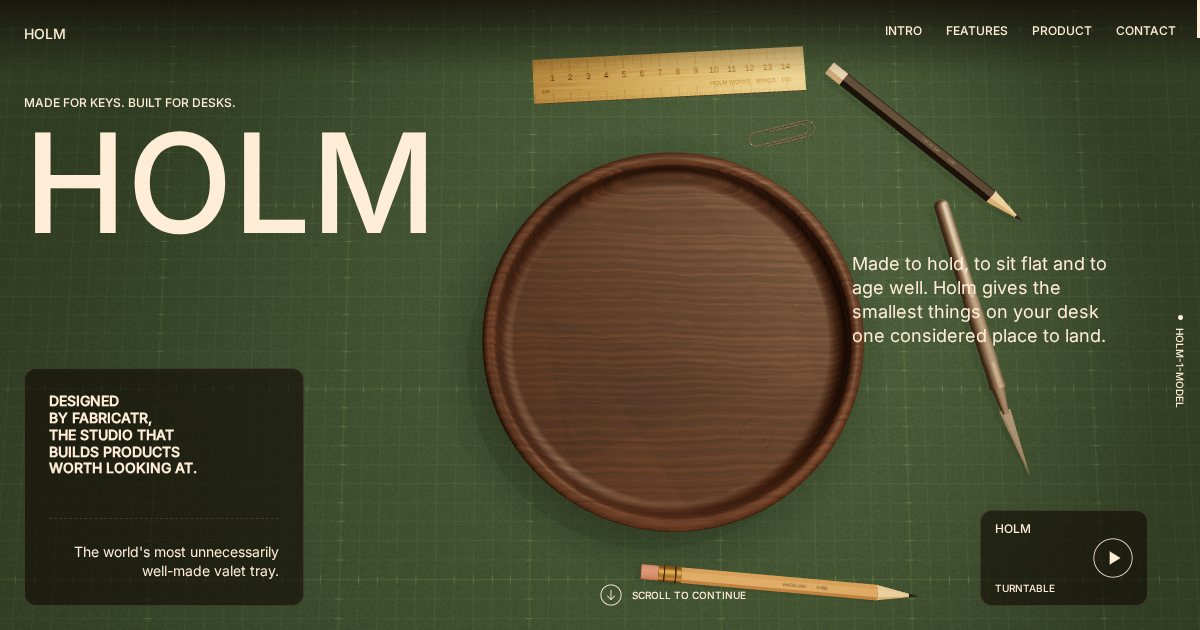
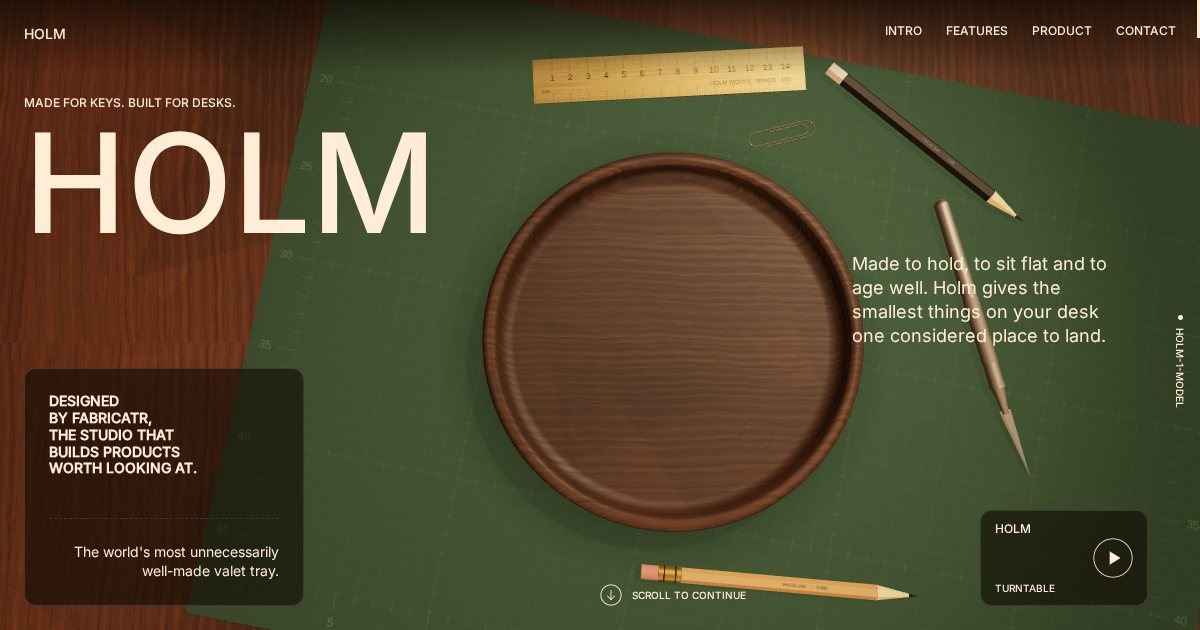
Give the set a desk and an angled mat; props per feature beat; richer gallery plates
Oak desk under a 3 mm cutting mat laid at 11 degrees, with real edges and
shadows. Coins and a ring fade into the pocket for Holds, a lit desk with a
contact shadow appears for Sits flat, and the walnut deepens on a slow cycle
for Ages well with the gauge marker following. Gallery gains a photograph, a
grain macro and a typographic poster. Dappled light on the cream interlude.

Claude-Session: https://claude.ai/code/session_01JWKw3uS8rxWdPNmURmLXLh

Changed region(s): [[0.0, 0.0302, 0.2775, 1.0], [0.555, 0.0, 1.0, 0.2111], [0.9867, 0.9952, 1.0, 1.0]]

diff --git a/assets/js/scene.js b/assets/js/scene.js
@@ -603,14 +603,26 @@ export function createScene(canvas, options = {}) {
   // The plane is far larger than any frame ever shows (the hero frames ≈ 5.3 × 3.3 units on desktop, the
   // portrait top-of-frame ray lands ≈ 3.5 units out) and its alpha dissolves to zero well inside its edge,
   // so no straight seam or corner of the "canvas" can slide into view while the camera drops through LIFT.
-  const MAT = 14.0;
-  const matTex = tex(makeMatCanvas(3072, MAT), { anisotropy: Math.min(8, maxAniso) });     // ≈ 22 px/cm
-  const matAlpha = tex(makeMatAlphaCanvas(512, MAT, 4.8, 6.6), { srgb: false });
+  // A desk under everything: the tray's own walnut canvas, tiled and lifted towards oak, dissolving to
+  // nothing well inside its edge so no seam can slide into view while the camera drops through LIFT.
+  const DESK = 14.0;
+  const deskMap = woodMap.clone(); deskMap.wrapS = deskMap.wrapT = THREE.RepeatWrapping; deskMap.repeat.set(4, 4); deskMap.rotation = Math.PI / 2; deskMap.needsUpdate = true;
+  const deskAlpha = tex(makeMatAlphaCanvas(512, DESK, 4.6, 6.6), { srgb: false });
+  const deskMat = new THREE.MeshStandardMaterial({ map: deskMap, alphaMap: deskAlpha, color: new THREE.Color().setRGB(1.9, 1.55, 1.15), roughness: 0.72, metalness: 0, transparent: true, envMapIntensity: 0.3 });
+  const desk = new THREE.Mesh(new THREE.PlaneGeometry(DESK, DESK), deskMat);
+  desk.rotation.x = -Math.PI / 2; desk.position.y = -0.034; desk.receiveShadow = true;
+  matGroup.add(desk);
+  // The cutting mat itself: an A2-ish slab, 3 mm thick, laid at a slight angle so the desk shows at the
+  // left third and the top-left corner where the wordmark sits.
+  const MAT_W = 5.2, MAT_D = 3.6, MAT_T = 0.03;
+  const matTex = tex(makeMatCanvas(3072, MAT_W), { anisotropy: Math.min(8, maxAniso) });    // ≈ 59 px/cm
+  matTex.wrapS = matTex.wrapT = THREE.ClampToEdgeWrapping; matTex.repeat.set(1, MAT_D / MAT_W); matTex.needsUpdate = true;
   // colour multiplier calibrated from rendered pixels so the lit mat beside the tray measures ≈ #445231
-  const matMat = new THREE.MeshStandardMaterial({ map: matTex, alphaMap: matAlpha, color: new THREE.Color().setRGB(1.12, 1.44, 1.62), roughness: 0.92, metalness: 0, transparent: true, envMapIntensity: 0.35 });
-  const mat = new THREE.Mesh(new THREE.PlaneGeometry(MAT, MAT), matMat);
-  mat.rotation.x = -Math.PI / 2;
-  mat.receiveShadow = true;
+  const matMat = new THREE.MeshStandardMaterial({ map: matTex, color: new THREE.Color().setRGB(1.12, 1.44, 1.62), roughness: 0.92, metalness: 0, transparent: true, envMapIntensity: 0.35 });
+  const matEdge = new THREE.MeshStandardMaterial({ color: '#1d2b20', roughness: 0.95, metalness: 0, transparent: true });
+  const mat = new THREE.Mesh(new THREE.BoxGeometry(MAT_W, MAT_T, MAT_D), [matEdge, matEdge, matMat, matEdge, matEdge, matEdge]);
+  mat.position.set(0.35, -MAT_T / 2, 0.15); mat.rotation.y = -11 * DEG;
+  mat.receiveShadow = true; mat.castShadow = true;
   matGroup.add(mat);
   const blobMat = new THREE.MeshBasicMaterial({ map: tex(makeBlobCanvas(256)), transparent: true, depthWrite: false, opacity: 0.42 });
   const blob = new THREE.Mesh(new THREE.PlaneGeometry(2.45, 2.45), blobMat);
@@ -649,7 +661,7 @@ export function createScene(canvas, options = {}) {
   const fadeMats = [];
   matGroup.traverse((o) => {
     if (o.isMesh) {
-      o.castShadow = o !== mat && o !== blob;
+      o.castShadow = o !== desk && o !== blob;
       const mats = Array.isArray(o.material) ? o.material : [o.material];
       for (const m of mats) {
         if (fadeMats.includes(m)) continue;
@@ -659,6 +671,23 @@ export function createScene(canvas, options = {}) {
       }
     }
   });
+
+  // ---- void props for the FEATURES beats: coins and a ring for "holds", a lit desk for "sits flat"
+  const brassP = new THREE.MeshStandardMaterial({ color: '#9a8352', roughness: 0.38, metalness: 1, transparent: true, opacity: 0 });
+  const nickel = new THREE.MeshStandardMaterial({ color: '#b9b7b0', roughness: 0.34, metalness: 1, transparent: true, opacity: 0 });
+  const coinGroup = new THREE.Group();
+  const coin = (r, h, m, x, z, rot) => { const c = new THREE.Mesh(new THREE.CylinderGeometry(r, r, h, 48), m); c.position.set(x, FLOOR_Y + h / 2, z); c.rotation.y = rot; c.castShadow = true; coinGroup.add(c); return c; };
+  coin(0.117, 0.028, brassP, -0.28, 0.12, 0.3); coin(0.11, 0.026, nickel, 0.08, -0.30, 1.1); coin(0.10, 0.026, brassP, 0.36, 0.24, 2.0);
+  const ring = new THREE.Mesh(new THREE.TorusGeometry(0.095, 0.014, 16, 48), brassP);
+  ring.rotation.x = Math.PI / 2; ring.position.set(-0.22, FLOOR_Y + 0.014, -0.44); ring.castShadow = true; coinGroup.add(ring);
+  coinGroup.visible = false;
+  scene.add(coinGroup);
+  tray.receiveShadow = true;
+  const groundMat = deskMat.clone(); groundMat.opacity = 0;
+  const ground = new THREE.Mesh(new THREE.PlaneGeometry(DESK, DESK), groundMat);
+  ground.rotation.x = -Math.PI / 2; ground.position.y = -0.034; ground.receiveShadow = true; ground.visible = false;
+  scene.add(ground);
+  let coinT = 0, groundT = 0, ageT = 0;
 
   /* ------------------------------------------------------------ choreography */
 
@@ -683,9 +712,9 @@ export function createScene(canvas, options = {}) {
     under:  { elev: -24,  width: 0.44, nx: 0, ny: 0 },   // the foot ring and chamfer from below
     lip:    { elev: 20,   width: 0.44, nx: 0, ny: 0 },   // low enough to read the pocket depth against the lip
     // FEATURES presets: the tray sits in the right two thirds beside a frosted panel (portrait: upper half, pnx/pny).
-    f1:     { elev: 18,   width: 0.40, nx: 0.30, ny: 0, pnx: 0, pny: 0.26 },
-    f2:     { elev: -28,  width: 0.40, nx: 0.30, ny: 0, pnx: 0, pny: 0.26 },
-    f3:     { elev: 89.5, width: 0.38, nx: 0.30, ny: 0, pnx: 0, pny: 0.26 },
+    f1:     { elev: 22,   width: 0.40, nx: 0.30, ny: 0, pnx: 0, pny: 0.26, props: true },   // coins land in the pocket
+    f2:     { elev: 7,    width: 0.40, nx: 0.30, ny: 0, pnx: 0, pny: 0.26, ground: true },  // on a lit desk, shadow tight underneath
+    f3:     { elev: 89.5, width: 0.38, nx: 0.30, ny: 0, pnx: 0, pny: 0.26, age: true },    // the walnut deepens and recovers on a slow cycle
     // Later beats: the underside flip, a macro across the rim, a small 3/4 between review columns, and 'away'
     // (tray hidden) for sections that paint their own ground or carry the tray as plates.
     flip:   { elev: -42,  width: 0.36, nx: 0, ny: 0 },
@@ -764,8 +793,7 @@ export function createScene(canvas, options = {}) {
     spot.visible = matGroup.visible;
     matGroup.position.y = -0.3 * vd;
     for (const m of fadeMats) m.opacity = m.userData.baseOpacity * op;
-    key.castShadow = matGroup.visible;
-    key.shadow.intensity = op;
+
   }
 
   let raf = 0, running = false, pending = 0, disposed = false;
@@ -799,11 +827,20 @@ export function createScene(canvas, options = {}) {
     applySet(vd);
     const o = override && PRESETS[override];
     trayGroup.visible = !(o && (o.hide || (aspect < 1 && o.phide)));
+    // FEATURES props: ease in and out with the beat.
+    coinT += ((o && o.props ? 1 : 0) - coinT) * a; groundT += ((o && o.ground ? 1 : 0) - groundT) * a;
+    coinGroup.visible = coinT > 0.01; ground.visible = groundT > 0.01;
+    brassP.opacity = nickel.opacity = coinT; groundMat.opacity = groundT;
+    const ageTarget = o && o.age && !reduced ? (1 - Math.cos(elapsed * (Math.PI * 2 / 9))) / 2 : (o && o.age ? 0.5 : 0);
+    ageT += (ageTarget - ageT) * (snap ? 1 : Math.min(1, a * 1.5));
+    wood.color.setRGB(lerp(1, 0.56, ageT), lerp(1, 0.50, ageT), lerp(1, 0.46, ageT));
+    key.castShadow = matGroup.visible || ground.visible || coinGroup.visible;
+    key.shadow.intensity = Math.max(1 - vd, groundT, coinT);
   }
 
   function renderNow() {
     if (disposed) return;
-    const dt = clock.running ? Math.min(clock.getDelta(), 0.1) : 0;
+    const dt = clock.running ? Math.min(clock.getDelta(), 0.25) : 0;   // long frames (software GL, tab switches) still converge quickly
     update(dt);
     renderer.render(scene, camera);
   }
@@ -825,6 +862,7 @@ export function createScene(canvas, options = {}) {
     setProgress(p) { progress = clamp(Number(p) || 0, 0, 1); requestRender(); },
     setPointer(nx, ny) { pointer.x = clamp(Number(nx) || 0, -1, 1); pointer.y = clamp(Number(ny) || 0, -1, 1); requestRender(); },
     setViewOverride(name) { override = (name && PRESETS[name]) ? name : null; requestRender(); },
+    getAge() { return ageT; },
     setSpin(on) { spinning = !!on; if (!spinning && (isStatic || reduced)) spinAngle = 0; requestRender(); },
     resize(width, height, dpr = 1) {
       W = Math.max(1, width | 0); H = Math.max(1, height | 0); aspect = W / H;

diff --git a/assets/css/styles.css b/assets/css/styles.css
@@ -217,6 +217,10 @@ section { position: relative; min-height: var(--vh); }
 .plate--olive { background: var(--color-mat); }
 .plate--drift { background: var(--color-driftwood); }
 .plate--void { background: var(--color-walnut-shadow); }
+.plate--photo img { object-fit: cover; }
+.plate--poster { padding: var(--spacing-24); display: flex; flex-direction: column; justify-content: space-between; align-items: flex-start; }
+.poster__line { font-size: clamp(28px, 2.6vw, 44px); line-height: .95; text-align: left; }
+.poster__foot { width: 100%; display: flex; justify-content: space-between; font-size: var(--text-2xs); line-height: 1; }
 .plate__ask { position: absolute; left: 0; right: 0; bottom: 0; display: flex; justify-content: space-between; align-items: center; gap: var(--spacing-12); padding: var(--spacing-12) var(--spacing-14); background: var(--color-walnut-shadow); font-size: var(--text-2xs); }
 .btn--tiny { padding: 6px var(--spacing-10); font-size: var(--text-2xs); }
 
@@ -250,6 +254,7 @@ section { position: relative; min-height: var(--vh); }
 .gauge__label { position: absolute; right: var(--spacing-12); white-space: nowrap; }
 .gauge__label--top { top: 0; } .gauge__label--mid { top: 50%; transform: translateY(-50%); } .gauge__label--bottom { bottom: 0; }
 .gauge__label::after { content: ""; position: absolute; right: calc(-1 * var(--spacing-12)); top: 50%; width: 8px; border-top: 1px solid var(--color-warm-cream); }
+.gauge__marker { position: absolute; right: -3px; top: 0; width: 9px; height: 9px; border-radius: var(--radius-full); background: var(--color-warm-cream); transform: translateY(-50%); }
 .formula { position: absolute; right: var(--edge); bottom: var(--spacing-24); text-align: right; }
 .formula__row { display: flex; flex-direction: column; align-items: flex-end; gap: var(--spacing-8); }
 .formula__math { font-family: var(--font-math); font-style: italic; text-transform: none; font-size: var(--text-heading-sm); line-height: 1.1; white-space: nowrap; }
@@ -287,7 +292,11 @@ section { position: relative; min-height: var(--vh); }
 
 /* Light interlude */
 .light { background: var(--color-warm-cream); color: var(--color-walnut-shadow); display: flex; flex-direction: column; }
-.light__hero { position: relative; min-height: var(--vh); display: grid; place-content: center; justify-items: center; gap: var(--spacing-24); padding: 120px var(--edge) 120px var(--gutter); text-align: center; }
+.light__hero { position: relative; min-height: var(--vh); display: grid; place-content: center; justify-items: center; gap: var(--spacing-24); padding: 120px var(--edge) 120px var(--gutter); text-align: center; overflow: hidden; }
+/* Dappled daylight on the cream ground: two soft pools that drift, the way leaf shadow moves on a desk. */
+.light__hero::before { content: ""; position: absolute; inset: -20%; pointer-events: none; background: radial-gradient(38% 30% at 28% 32%, rgba(16, 9, 4, .11), transparent 70%), radial-gradient(30% 42% at 74% 62%, rgba(16, 9, 4, .09), transparent 70%), radial-gradient(22% 18% at 55% 20%, rgba(16, 9, 4, .06), transparent 70%); animation: dapple 22s ease-in-out infinite alternate; }
+.light__hero > * { position: relative; }
+@keyframes dapple { from { transform: translate(0, 0) scale(1); } to { transform: translate(-4%, 3%) scale(1.06); } }
 .light__top { position: absolute; top: 96px; left: 50%; transform: translateX(-50%); }
 .light__side { position: absolute; left: var(--gutter); top: 50%; transform: translateY(-50%); }
 .light__word { font-size: clamp(64px, 15vw, 260px); line-height: .95; text-transform: none; font-weight: var(--weight-medium); }
@@ -444,5 +453,6 @@ section { position: relative; min-height: var(--vh); }
   .reveal .label, .reveal .body, .reveal .specs, .reveal .price, .reveal .field, .reveal .credits > *, .reveal .plan, .pin .pills, .beat__body, .beat__foot, .statement__foot, .statement__note, .reviews__grid, .light__body, .strip, .always__tile, .always__text .label { opacity: 1; transform: none; transition: none; }
   .loader { transition: none; }
   .loader__fill { animation: none; width: 100%; }
+  .light__hero::before { animation: none; }
   .display .caret { animation: none; }
 }

diff --git a/index.html b/index.html
@@ -127,13 +127,13 @@
         <p class="gallery__kicker"><span class="label">So solid,</span><span class="gallery__small">it's furniture.</span></p>
         <h2 class="gallery__headline" id="marquee" aria-label="So solid, it's furniture.">it's furniture.</h2>
         <div class="gallery__track" id="track">
+          <figure class="plate plate--photo"><img src="./assets/img/plates/photo.jpg" alt="The HOLM tray on a cutting mat with pencils, a craft knife and a brass ruler"><figcaption>Nº 001 · On the mat</figcaption><span class="plate__dot"></span></figure>
           <figure class="plate plate--cream"><img src="./assets/img/plates/quarter.png" alt="The HOLM tray from three quarters"><figcaption>Nº 014 · The hall table</figcaption><span class="plate__dot"></span></figure>
           <figure class="plate plate--bark"><img src="./assets/img/plates/under.png" alt="The underside of the tray with its maker's stamp"><figcaption>Nº 037 · Underside</figcaption><span class="plate__dot"></span></figure>
-          <figure class="plate plate--olive"><img src="./assets/img/plates/side.png" alt="The tray in profile"><figcaption>Nº 052 · Profile</figcaption><span class="plate__dot"></span>
+          <figure class="plate plate--photo"><img src="./assets/img/plates/macro.jpg" alt="The walnut grain across the rim, close up"><figcaption>Nº 052 · Grain</figcaption><span class="plate__dot"></span></figure>
+          <figure class="plate plate--olive"><img src="./assets/img/plates/top.png" alt="The tray from above"><figcaption>Nº 088 · Plan</figcaption><span class="plate__dot"></span>
             <div class="plate__ask"><span>Hey @holm, does it come in oak?</span><span class="btn btn--ghost btn--tiny">One timber</span></div></figure>
-          <figure class="plate plate--cream"><img src="./assets/img/plates/top.png" alt="The tray from above"><figcaption>Nº 088 · Plan</figcaption><span class="plate__dot"></span></figure>
-          <figure class="plate plate--drift"><img src="./assets/img/plates/detail.png" alt="A close view of the rim"><figcaption>Nº 121 · Detail</figcaption><span class="plate__dot"></span></figure>
-          <figure class="plate plate--void"><img src="./assets/img/plates/lip.png" alt="The lip of the tray, low angle"><figcaption>Nº 200 · The last one</figcaption><span class="plate__dot"></span></figure>
+          <figure class="plate plate--cream plate--poster"><p class="poster__line">Made for keys.<br>Built for desks.</p><p class="poster__foot"><span>HOLM</span><span>Nº 200 · The last one</span></p><span class="plate__dot"></span></figure>
         </div>
       </div>
     </section>
@@ -177,7 +177,7 @@
           <div class="dim step is-active" data-step="1"><span class="dim__line"></span><span class="dim__label">14 mm · pocket</span></div>
           <div class="gauge step" data-step="3">
             <span class="gauge__label gauge__label--top">Year 1 · Fresh oil</span>
-            <span class="gauge__bar"></span>
+            <span class="gauge__bar"></span><span class="gauge__marker" id="ageMarker"></span>
             <span class="gauge__label gauge__label--mid">Year 5</span>
             <span class="gauge__label gauge__label--bottom">Year 20 · Deep</span>
           </div>

diff --git a/assets/js/main.js b/assets/js/main.js
@@ -164,13 +164,13 @@ const byId = Object.fromEntries(navLinks.map(a => [a.getAttribute('href').slice(
 
 // --- Camera overrides: one resolver for section presets, feature beats and the product pills -----------
 let sectionEl = null, featureView = null, featuresActive = false, pillView = null, pillsActive = false;
-function applyOverride() {
+let applyOverride = function () {
   const view = pillsActive && pillView ? pillView
     : featuresActive ? featureView
     : sectionEl ? (sectionEl.dataset.view || null)
     : null;
   scene?.setViewOverride(view);
-}
+};
 {
   const io = new IntersectionObserver(entries => {
     entries.forEach(e => {
@@ -199,6 +199,12 @@ if (markers.length) {
   }, { rootMargin: '-50% 0px -50% 0px', threshold: 0 });
   markers.forEach(m => io.observe(m));
   new IntersectionObserver(([e]) => { featuresActive = e.isIntersecting; applyOverride(); }, { rootMargin: '-50% 0px -50% 0px', threshold: 0 }).observe(document.getElementById('features'));
+  // The ageing gauge follows the scene's darkening cycle while beat 3 is on.
+  const marker = document.getElementById('ageMarker');
+  let ageRaf = 0;
+  const ageTick = () => { ageRaf = 0; if (!marker || !scene) return; marker.style.top = (scene.getAge?.() ?? 0) * 100 + '%'; if (featuresActive && featureView === 'f3') ageRaf = requestAnimationFrame(ageTick); };
+  const prevApply = applyOverride;
+  applyOverride = () => { prevApply(); if (featuresActive && featureView === 'f3' && !ageRaf) ageRaf = requestAnimationFrame(ageTick); };
   gotoButtons.forEach(b => b.addEventListener('click', () => {
     markers.find(x => x.dataset.step === b.dataset.goto)?.scrollIntoView({ behavior: reducedMotion ? 'auto' : 'smooth', block: 'center' });
   }));
